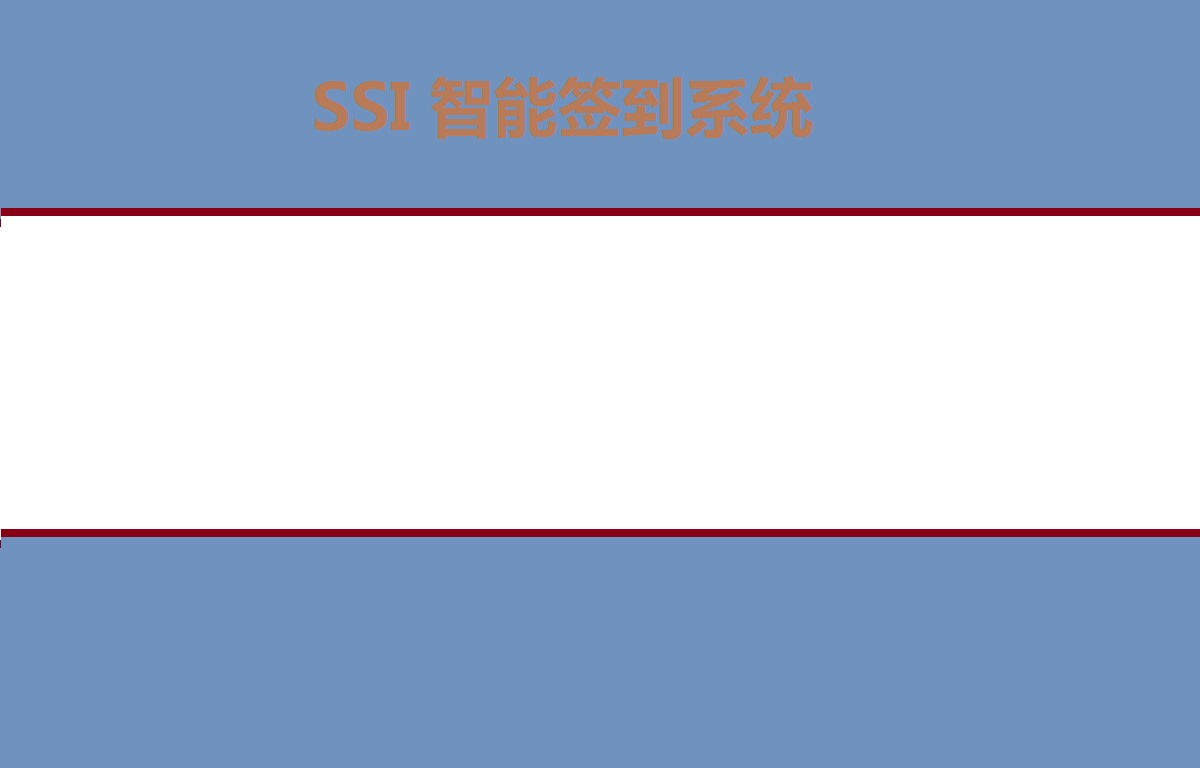
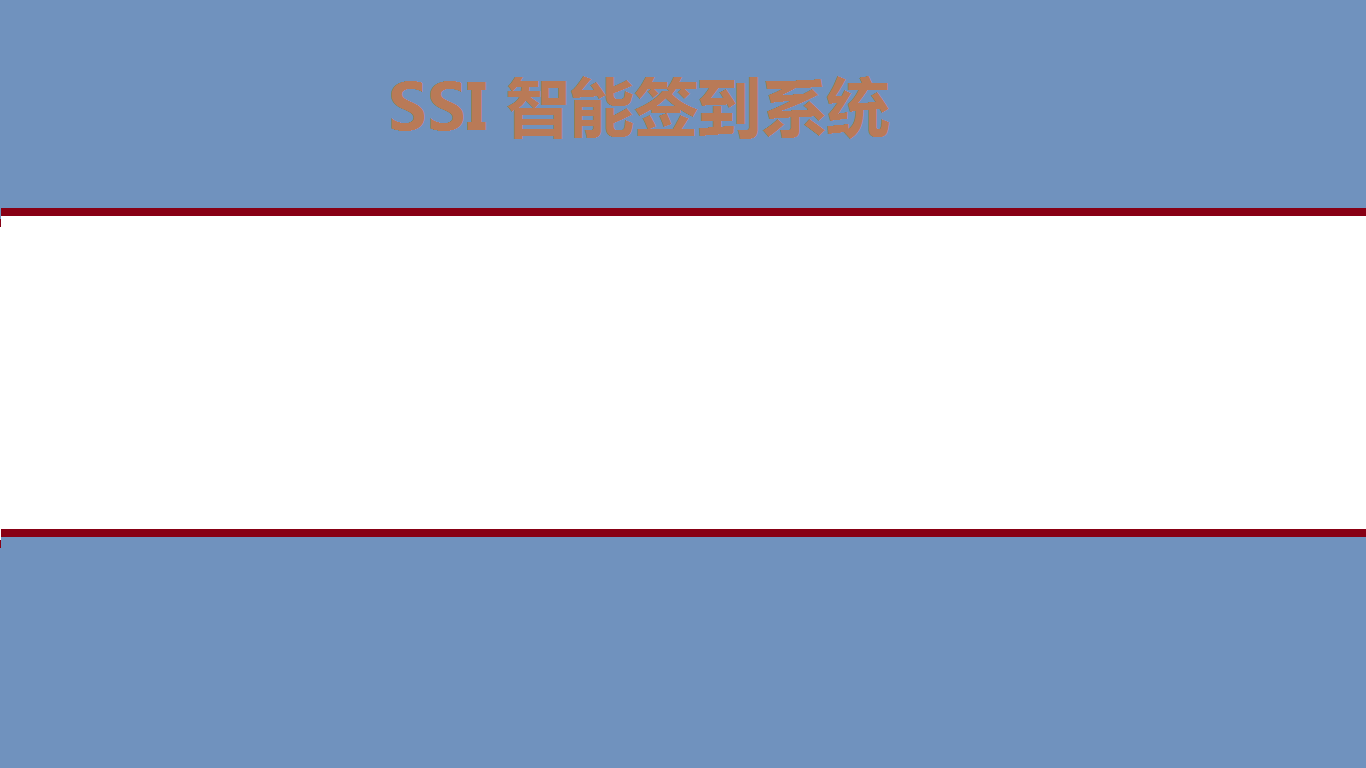
Fullsceen Changes
Fullsceen Changes

Changed region(s): [[0.2467, 0.0938, 0.6783, 0.1875]]

diff --git a/src/com/ssi/view/MainView.java b/src/com/ssi/view/MainView.java
@@ -16,9 +16,14 @@ package com.ssi.view;
 
 
 import java.awt.BorderLayout;
+import java.awt.Graphics2D;
+import java.awt.GraphicsDevice;
+import java.awt.GraphicsEnvironment;
 import java.awt.GridLayout;
+import java.awt.Image;
 import java.awt.event.ActionEvent;
 import java.awt.event.ActionListener;
+import java.awt.image.BufferedImage;
 
 import javax.swing.ImageIcon;
 import javax.swing.JButton;
@@ -26,8 +31,8 @@ import javax.swing.JFrame;
 import javax.swing.JLabel;
 import javax.swing.JPanel;
 
-import com.vguang.VguangApi;
 import com.wicky.util.DrawableUtils;
+import com.wicky.util.Resize;
 
 
 
@@ -57,8 +62,12 @@ public class MainView extends JFrame implements ActionListener {
 	public MainView()
 	{
 //		Setting.saveLogFile(LOG_LEVEL.all, "./msc.log");
+	    
+	    System.out.println("Current Resoluation: "+DrawableUtils.getScreenWidth()+" x "+DrawableUtils.getScreenHeight());
+	    
 		//设置界面大小，背景图片
 		ImageIcon background = new ImageIcon("img/index_bg.png");
+		background = resizeImageToScreenSize(background);
 		JLabel label = new JLabel(background);
 		label.setBounds(0, 0, background.getIconWidth(), background
 	                .getIconHeight());
@@ -106,9 +115,31 @@ public class MainView extends JFrame implements ActionListener {
 		
 		setLocationRelativeTo(null); 
 		setContentPane(mContentPanel);
+		
+        /** 
+         * true无边框 全屏显示 
+         * false有边框 全屏显示 
+         */  
+        this.setUndecorated(true);  
 		setVisible(true);
+		
+	    // 全屏设置  
+        GraphicsEnvironment ge = GraphicsEnvironment.getLocalGraphicsEnvironment();
+        GraphicsDevice gd = ge.getDefaultScreenDevice();
+        gd.setFullScreenWindow(this);
 	}
-	
+
+    private ImageIcon resizeImageToScreenSize(ImageIcon imageIcon) {
+        Image img = imageIcon.getImage();
+        BufferedImage bimage = new BufferedImage(img.getWidth(null), img.getHeight(null), BufferedImage.TYPE_INT_ARGB);
+        // Draw the image on to the buffered image
+        Graphics2D bGr = bimage.createGraphics();
+        bGr.drawImage(img, 0, 0, null);
+        bGr.dispose();
+        imageIcon = new ImageIcon(Resize.rize(bimage, 
+                DrawableUtils.getScreenWidth(), DrawableUtils.getScreenHeight()));
+        return imageIcon;
+    }
 	
 	/**
 	 * Demo入口函数.
@@ -167,16 +198,16 @@ public class MainView extends JFrame implements ActionListener {
 	
 	public void closeDevice(){
 	    //关闭设备
-	    VguangApi.closeDevice();
+//	    VguangApi.closeDevice();
 	}
 	
 	public void applySettingsAndOpenDevice(){
         //应用设置
-        SETUP_VIEW.applySetting();
+//        SETUP_VIEW.applySetting();
         //初始化数据
         SIGNIN_VIEW.initDataMap();
         //打开设备
-        VguangApi.openDevice();
+//        VguangApi.openDevice();
 	}
 	
 	public JPanel getMainJpanel()
